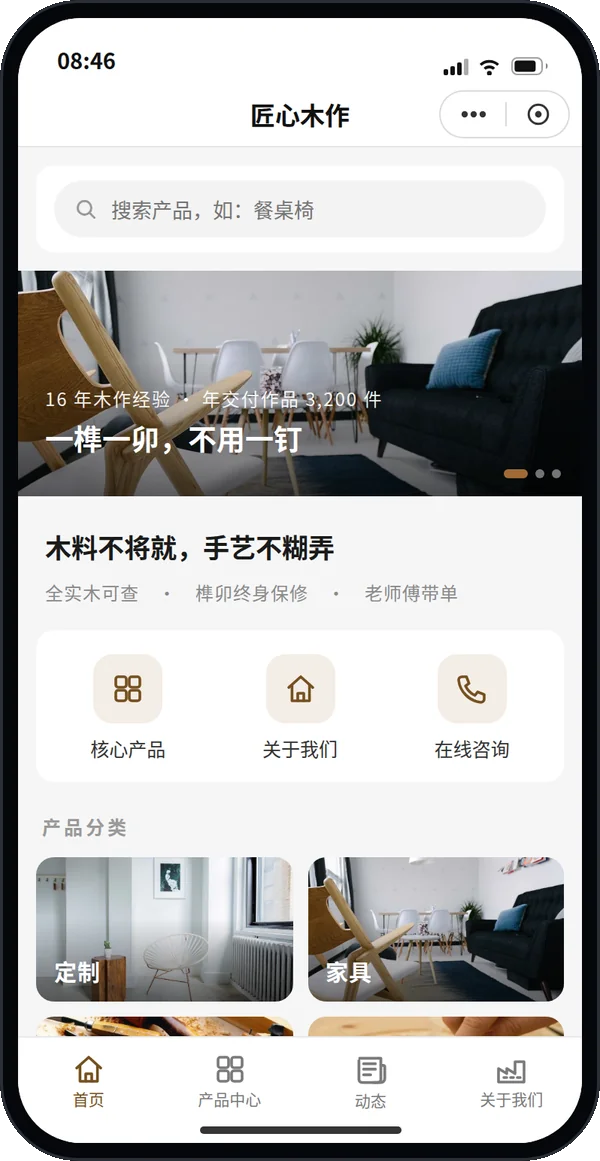
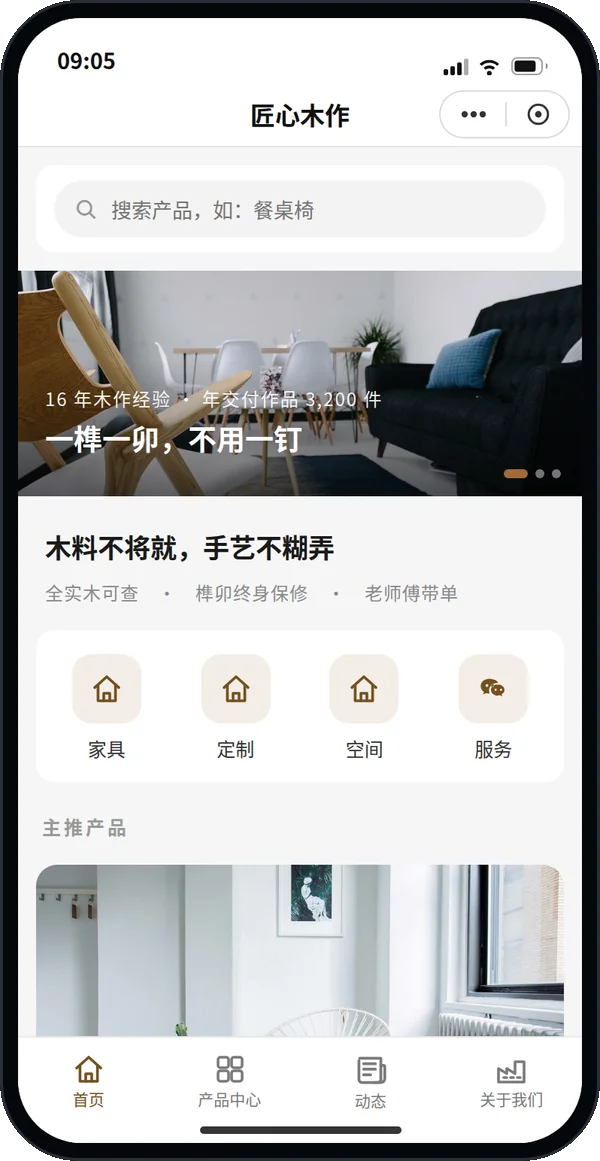
MP-S1 第九轮：金刚区单维度化（B 方案）——只放产品分类、分类大图卡取消、quick 字段废弃

diff --git a/mp/index.html b/mp/index.html
@@ -89,16 +89,11 @@
   .strength .s-k{ font-size:11px; letter-spacing:2px; color:var(--sub); font-weight:700; margin-bottom:7px; }
   .strength .s-t{ font-size:14.5px; color:#333; line-height:1.8; }
   .stream .strength{ margin:16px 0 0; }
-  /* 首页流（第七轮）：主张提炼行 / 分类大图卡 / Pickup / 规格 chips / 流尾 */
+  /* 首页流（第七轮，第九轮修订）：主张提炼行 / 金刚区（产品分类格）/ Pickup / 规格 chips / 流尾 */
   .hero-claim{ padding:20px 18px 2px; }
   .hero-claim .hc-t{ font-size:17.5px; font-weight:700; color:#1a1a1a; line-height:1.55; }
   .hero-claim .hc-line{ margin-top:7px; font-size:12px; color:var(--sub); letter-spacing:.5px; line-height:1.7; }
   .shead{ padding:20px 16px 0; font-size:12.5px; font-weight:600; color:#999; letter-spacing:2px; }
-  .cat-grid{ display:grid; grid-template-columns:1fr 1fr; gap:10px; padding:11px 12px 0; }
-  .cat-card{ position:relative; height:96px; border-radius:12px; overflow:hidden; cursor:pointer; background:#ddd; }
-  .cat-card img{ position:absolute; inset:0; width:100%; height:100%; object-fit:cover; display:block; }
-  .cat-card .cc-shade{ position:absolute; inset:0; background:linear-gradient(180deg,rgba(0,0,0,0) 42%,rgba(0,0,0,.55)); }
-  .cat-card .cc-t{ position:absolute; left:12px; bottom:10px; color:#fff; font-size:15px; font-weight:700; letter-spacing:.5px; }
   .stream{ padding:2px 12px 0; }
   .pick{ background:#fff; border-radius:14px; overflow:hidden; margin-top:14px; cursor:pointer; }
   .pick img{ width:100%; height:178px; object-fit:cover; display:block; }
@@ -263,7 +258,7 @@
       <h3>样板构成</h3>
       <ul>
         <li>骨架：MP-S1 展示型 · 企业官网经典 4 栏（用户定版 tab 架构标准：微信规范 2–5 栏、落地主流 3–4 栏）</li>
-        <li>栏位：首页（app 信息流：搜索 → 瘦身 Banner → 主张提炼行 → 金刚区（入口随展示预设与启用状态自动生成）→ 分类大图卡与产品流 → 企业实力聚合区（按展示配置动态渲染楼层：有啥展示啥、无数据不留空板块，楼层均为预览入口 + 锚点深链）→ 底部转化区）· 产品中心（分类 / 规格参数 / 询价，核心转化区）· 动态（信任背书：案例与企业动态，全文单点落此栏）· 关于我们（简介全文 / 工厂实景与资质荣誉 / 地址导航 / 联系方式 / 在线留资表单）</li>
+        <li>栏位：首页（app 信息流：搜索 → 瘦身 Banner → 主张提炼行 → 金刚区（只放产品分类：图标 + 分类原名，点击预筛产品中心，数据驱动、与展示预设无关）→ Pickup 精选与产品流（分类大图卡已于第九轮取消）→ 企业实力聚合区（按展示配置动态渲染楼层：有啥展示啥、无数据不留空板块，楼层均为预览入口 + 锚点深链）→ 底部转化区）· 产品中心（分类 / 规格参数 / 询价，核心转化区）· 动态（信任背书：案例与企业动态，全文单点落此栏）· 关于我们（简介全文 / 工厂实景与资质荣誉 / 地址导航 / 联系方式 / 在线留资表单）</li>
         <li>转化设计：产品详情页与关于我们页固定悬浮一键拨号 + 在线客服（动作不印号码）；联系方式全文只在关于我们出现一处</li>
         <li id="specPack">内容包：机械设备 · 恒力重工（与官网演示站同一份数据）</li>
         <li id="specAccent">主题色：内容包品牌 accent 安全黄 #E4AF00</li>
@@ -358,13 +353,6 @@ const DEFAULT_CFG = { preset: "mature", preset_label: "成熟内容型",
     { key: "gallery", enabled: true, home: true, order: 4 },
     { key: "stats", enabled: true, home: true, direct: false, order: 5 }
   ],
-  quick: [
-    { target: "products", label: "核心产品", icon: "grid" },
-    { target: "cases", label: "交付案例", icon: "layers" },
-    { target: "news", label: "企业动态", icon: "news" },
-    { target: "gallery", label: "资质荣誉", icon: "factory" },
-    { target: "intro", label: "关于我们", icon: "home" }
-  ],
   overrides: {} };
 /* 组件池（固定五类，横跨案例·动态与关于我们两栏，不并栏）：key → 权威渲染栏 / 锚点 section / 楼层名 */
 const COMP_TAB = { intro: "about", stats: "about", gallery: "about", cases: "news", news: "news" };
@@ -410,16 +398,32 @@ function strengthHTML() {
   if (!P.why_intro) return "";
   return '<div class="strength"><div class="s-k">企业实力</div><div class="s-t">' + esc(P.why_intro) + "</div></div>";
 }
-/* 金刚区：条目随展示预设与启用状态自动生成（候选序见配置 quick，渲染时只保留目标真实存在的条目，上限 4） */
+/* 金刚区（第九轮定版，用户选定 B 方案）：只放产品分类——单维度，取当前包产品数据自身的
+   分类（products[].cat），按产品数降序（同数按首次出现序）取前 4，图标 + 分类原名；
+   每格为携上下文深链，点击切产品中心并预筛该分类（goProducts，与原大图卡 W1 同一机制）。
+   分类不足有几个放几个，不拿栏目/组件/动作凑数；无分类则整区不渲染。
+   金刚区由产品数据驱动、与展示配置（预设）无关——packs-display 的 quick 字段已废弃移除。 */
+const CAT_ICON_RULES = [
+  [/整机|设备|产线/, "factory"],
+  [/零部件|属具|耗材|模具|机加工|钣金|注塑|表面处理|加工|改造|集成|电控/, "wrench"],
+  [/板材|型材|塑料|树脂|胶粘|复合材料|助剂|检测/, "layers"],
+  [/家具|空间|定制|礼品/, "home"],
+  [/服务/, "wechat"]
+];
+function catIcon(cat) {
+  for (const [re, ic] of CAT_ICON_RULES) if (re.test(cat)) return IC[ic];
+  return IC.grid;
+}
+function topCats() {
+  const seq = [], cnt = {};
+  P.products.forEach(p => { if (!(p.cat in cnt)) { cnt[p.cat] = 0; seq.push(p.cat); } cnt[p.cat]++; });
+  return seq.map((c, i) => ({ c, n: cnt[c], i })).sort((a, b) => b.n - a.n || a.i - b.i).slice(0, 4).map(x => x.c);
+}
 function quickHTML() {
-  const items = [];
-  for (const q of (CFG.quick || [])) {
-    if (items.length >= 4) break;
-    if (q.target === "products" || q.target === "lead" || compAvail(q.target)) items.push(q);
-  }
-  if (!items.length) return "";
-  return '<div class="grid4">' + items.map(q =>
-    `<div class="gitem" data-quick="${esc(q.target)}"><span class="ic">${IC[q.icon] || IC.grid}</span><span class="lb">${esc(q.label)}</span></div>`).join("") + "</div>";
+  const cats = topCats();
+  if (!cats.length) return "";
+  return '<div class="grid4">' + cats.map(c =>
+    `<div class="gitem" data-catnav="${esc(c)}"><span class="ic">${catIcon(c)}</span><span class="lb">${esc(c)}</span></div>`).join("") + "</div>";
 }
 function floorHead(key, more) {
   return `<div class="floor-head"><b>${COMP_LABEL[key]}</b>${more === false ? "" : `<span class="more" data-anchor="${key}">查看更多 ${IC.chevR}</span>`}</div>`;
@@ -459,12 +463,11 @@ function ctaHTML() {
     </div>
   </div>`;
 }
-/* 首页（第八轮：展示配置与首页动态映射）——骨架定版：搜索（携参深链）→ 瘦身 Banner + 主张提炼行
-   → 金刚区（随预设生成）→ 核心产品（分类大图卡 + Pickup 精选与产品流）→ 企业实力聚合区（配置驱动的动态楼层）
-   → 底部转化区。内容决定模块生灭：楼层由展示配置（packs-display）与内容池数据共同决定，有啥展示啥。 */
+/* 首页（第八轮：展示配置与首页动态映射；第九轮：金刚区单维度化）——骨架定版：搜索（携参深链）→ 瘦身 Banner + 主张提炼行
+   → 金刚区（只放产品分类，数据驱动）→ 核心产品（Pickup 精选与产品流；分类大图卡已取消，分类入口统一归金刚区）
+   → 企业实力聚合区（配置驱动的动态楼层）→ 底部转化区。
+   内容决定模块生灭：楼层由展示配置（packs-display）与内容池数据共同决定，有啥展示啥。 */
 function renderHome() {
-  const cats = [];
-  P.products.forEach(p => { if (!cats.includes(p.cat)) cats.push(p.cat); });
   const picks = P.products.slice(0, 3);
   const rest = P.products.slice(3);
   const specPair = p => p.specs.slice(0, 2).map(s => esc(s.k) + " " + esc(s.v)).join(" · ");
@@ -504,11 +507,6 @@ function renderHome() {
     <div class="hc-line">${P.why_points.map(w => esc(w.title)).join("　·　")}</div>
   </div>
   ${quickHTML()}
-  <div class="shead">产品分类</div>
-  <div class="cat-grid">
-    ${cats.map(c => { const fp = P.products.find(p => p.cat === c); return `
-    <div class="cat-card" data-catgo="${esc(c)}"><img src="${fp.img}" alt=""><div class="cc-shade"></div><div class="cc-t">${esc(c)}</div></div>`; }).join("")}
-  </div>
   <div class="shead">主推产品</div>
   <div class="stream">
     ${picks.map(pickHTML).join("")}
@@ -670,8 +668,9 @@ function syncFab() {
   fab.classList.toggle("hidden", !show);
   fab.classList.toggle("up", S.detail != null);
 }
-/* 锚点深链（第八轮）：首页楼层「查看更多」与金刚区条目携带组件目标 → 切到所属 tab 并滚动定位到该组件 section。
-   模拟器内以 .page 容器滚动实现；原生语义对应页面滚动锚点 / scroll-view scroll-into-view（见 PRODUCT-LINE 展示配置节） */
+/* 锚点深链（第八轮）：首页楼层「查看更多」携带组件目标 → 切到所属 tab 并滚动定位到该组件 section。
+   模拟器内以 .page 容器滚动实现；原生语义对应页面滚动锚点 / scroll-view scroll-into-view（见 PRODUCT-LINE 展示配置节）。
+   金刚区自第九轮起不再走锚点：分类格走 goProducts 预筛深链（data-catnav）。 */
 let pendingAnchor = null;
 function scrollToId(id) {
   const pg = $("#page"), el = document.getElementById(id);
@@ -761,14 +760,10 @@ document.addEventListener("click", e => {
   const det = e.target.closest("[data-detail]"); if (det) { openDetail(+det.dataset.detail); return; }
   const cat = e.target.closest("[data-cat]"); if (cat) { S.cat = cat.dataset.cat; render(); return; }
   const biz = e.target.closest("[data-biz]"); if (biz) { goProducts(P.biz_cats[+biz.dataset.biz] || "全部"); return; }
-  const catgo = e.target.closest("[data-catgo]"); if (catgo) { goProducts(catgo.dataset.catgo); return; }
+  const catnav = e.target.closest("[data-catnav]"); if (catnav) { goProducts(catnav.dataset.catnav); return; }
   const parts = e.target.closest("[data-parts]"); if (parts) { goProducts(P.support.parts ? P.support.parts.cat : "全部"); return; }
   const ank = e.target.closest("[data-anchor]");
   if (ank) { const t = anchorFor(ank.dataset.anchor); if (t) goAnchor(t[0], t[1]); return; }
-  const qk = e.target.closest("[data-quick]");
-  if (qk) { const tg = qk.dataset.quick;
-    if (tg === "products") { goTab("products"); return; }
-    const t = anchorFor(tg); if (t) goAnchor(t[0], t[1]); return; }
   const act = e.target.closest("[data-act]");
   if (act) {
     const a = act.dataset.act;
